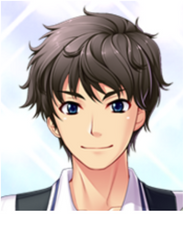
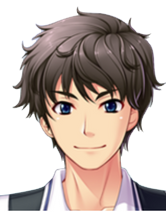
Toutes les têtes de la même taille + css

diff --git a/public/assets/stylesheets/intro.css b/public/assets/stylesheets/intro.css
@@ -46,7 +46,5 @@ body{
     justify-content: center;
     align-items: center;
 }
-#head{
-    margin-top: 35px;
-}
+
 /* --- fin des bulles --- */
